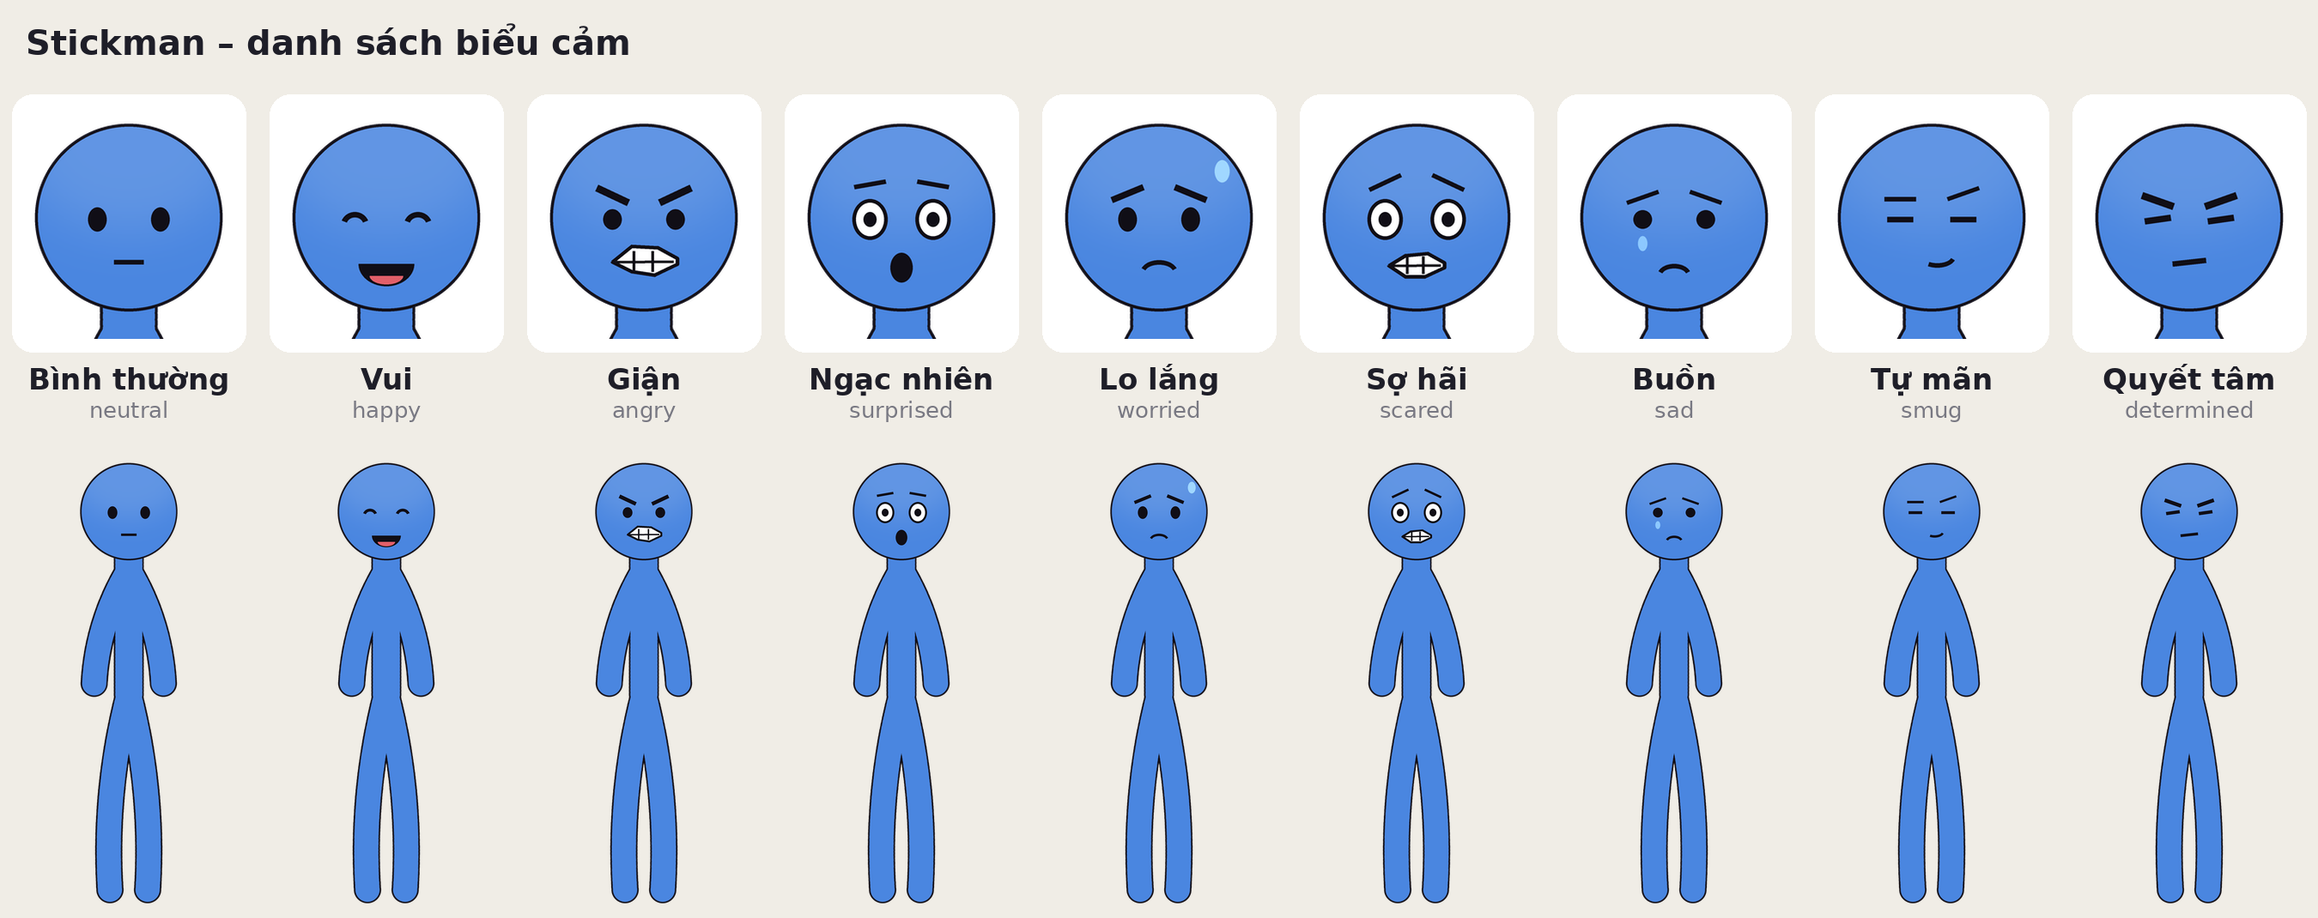
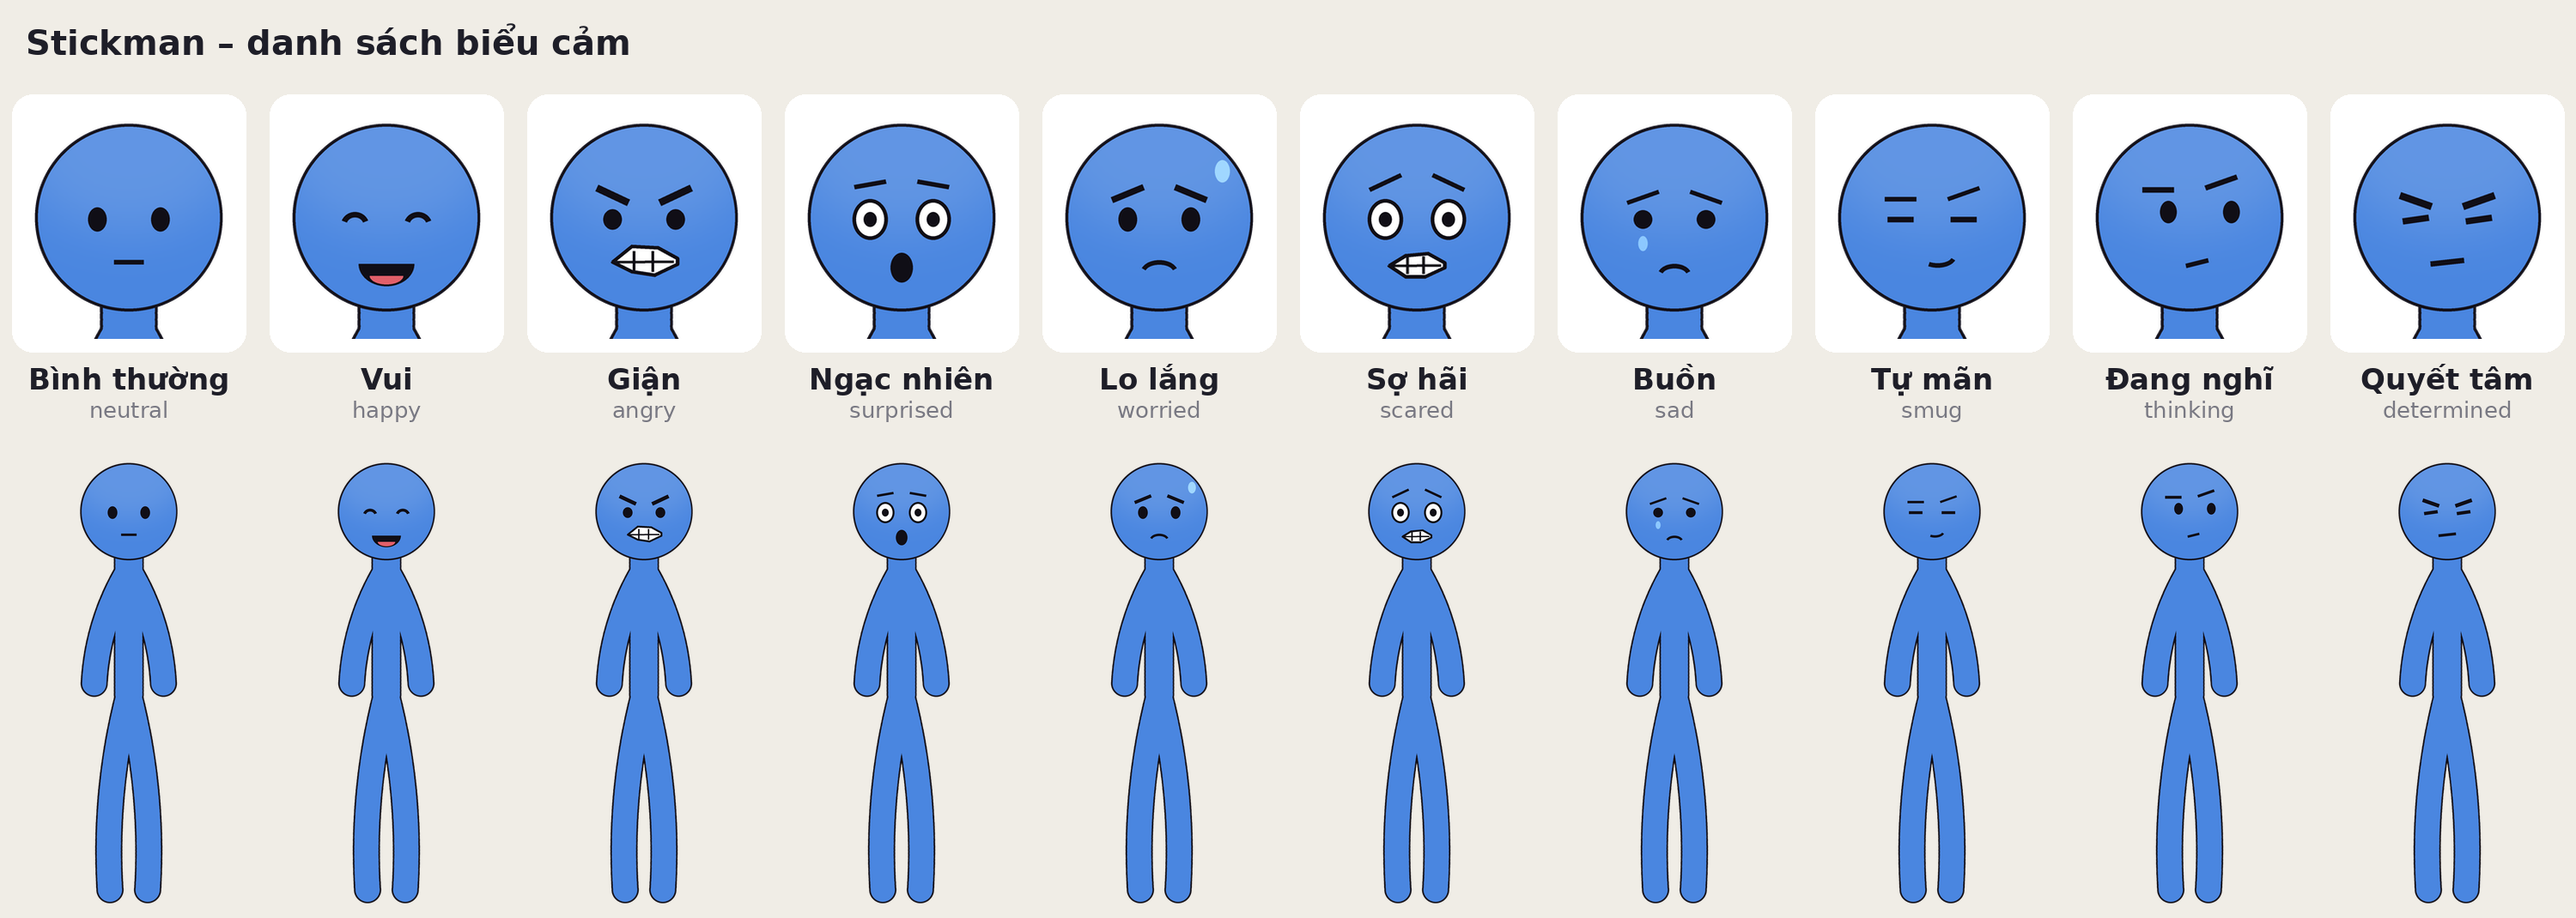
Stickman: rework think pose, add thinking expression
The think pose now crosses one arm under the elbow and rests the other
hand on the chin, instead of a fist floating beside the head. Limbs take
an optional forearm-length factor per pose.

Claude-Session: https://claude.ai/code/session_01CUE842PbdL9sSX7eAMKyAH

diff --git a/stickman/scripts/stickman.py b/stickman/scripts/stickman.py
@@ -19,7 +19,7 @@ POSES = {
     'run':   dict(armL=(-55, -125), armR=(45, -15), legL=(-38, 8), legR=(30, 85)),
     'point': dict(armL=(24, 10), armR=(-82, -88), legL=(11, 1), legR=(-11, -1)),
     'shrug': dict(armL=(60, -35), armR=(-60, 35), legL=(10, 1), legR=(-10, -1)),
-    'think': dict(armL=(24, 10), armR=(-30, -160), legL=(10, 1), legR=(-10, -1)),
+    'think': dict(armL=(10, -84, 0.72), armR=(-30, 160), legL=(10, 1), legR=(-10, -1)),   # arm across the belly, other hand on the chin
     'cheer': dict(armL=(145, 160), armR=(-145, -160), legL=(16, 2), legR=(-16, -2)),
 }
 
@@ -39,10 +39,10 @@ def draw(expr='neutral', pose='stand', color='#4a86e0', hat=None, look=0.0):
     hip = (300, 520); shoulder = (300, 262)
     seg_arm, seg_leg = 124, 205
 
-    def limb(root, ang, seg):
-        a1, a2 = (math.radians(a) for a in ang)
+    def limb(root, ang, seg):              # ang = (upper, lower[, lower-length factor])
+        a1, a2 = math.radians(ang[0]), math.radians(ang[1]); seg2 = seg * (ang[2] if len(ang) > 2 else 1.0)
         j = (root[0] - math.sin(a1) * seg, root[1] + math.cos(a1) * seg)
-        e = (j[0] - math.sin(a2) * seg, j[1] + math.cos(a2) * seg)
+        e = (j[0] - math.sin(a2) * seg2, j[1] + math.cos(a2) * seg2)
         return root, j, e
 
     def path(root, j, e, n=60):            # smooth quadratic through the joint
@@ -75,7 +75,6 @@ def draw(expr='neutral', pose='stand', color='#4a86e0', hat=None, look=0.0):
     side = pose in SIDE_POSES
     body = [(lpts(legs[1]), T), (lpts(legs[0]), T), (torso, TB)]
     if side: body.insert(0, (lpts(arms[1]), T))
-    elif pose == 'think': body.insert(0, (lpts(arms[0]), T))          # hanging arm; chin arm drawn over the face later
     else: body = [(lpts(arms[0]), T), (lpts(arms[1]), T)] + body
     for pts, w in body: stamp(pts, w + 2 * OUT, INK)
     for pts, w in body: stamp(pts, w, C)
@@ -86,8 +85,8 @@ def draw(expr='neutral', pose='stand', color='#4a86e0', hat=None, look=0.0):
     cap = Image.new('L', im.size, 0); ImageDraw.Draw(cap).ellipse([(hx - R * 1.25) * S, (hy - R * 1.9) * S, (hx + R * 1.25) * S, (hy + R * 0.15) * S], fill=150)
     cap = ImageChops.multiply(cap.filter(ImageFilter.GaussianBlur(26 * S)), m)
     lay = Image.new('RGBA', im.size, hi + (255,)); lay.putalpha(cap); im.alpha_composite(lay); d = ImageDraw.Draw(im)
-    if side:
-        front_arm(lpts(arms[0]))
+    if side or pose == 'think':
+        front_arm(lpts(arms[0]))           # think: the crossed arm sits in front of the torso
 
     # ---------------- face ----------------
     K = (16, 14, 22, 255); WH = (255, 255, 255, 255)
@@ -139,6 +138,10 @@ def draw(expr='neutral', pose='stand', color='#4a86e0', hat=None, look=0.0):
         eye(eL, 'dot', 20); eye(eR, 'dot', 20); brow(eL, -6, -24, 5); brow(eR, 6, -24, 5)
         d.arc([(fx - 18) * S, (my + 2) * S, (fx + 18) * S, (my + 26) * S], 200, 340, fill=K, width=5 * S)
         d.ellipse([(eL - 5) * S, (ey + 18) * S, (eL + 5) * S, (ey + 34) * S], fill=(140, 200, 255, 255))
+    elif expr == 'thinking':               # eyes glance up-right, one brow raised, small skewed mouth
+        for cx in (eL, eR): d.ellipse([(cx + 2) * S, (ey - 20) * S, (cx + 20) * S, (ey + 4) * S], fill=K)
+        brow(eL, 0, -32, 6); brow(eR, -6, -40, 6)
+        d.line([(fx - 4) * S, (my + 4) * S, (fx + 20) * S, (my - 2) * S], fill=K, width=5 * S)
     elif expr == 'determined':
         eye(eL, 'squint'); eye(eR, 'squint'); brow(eL, 6, -20, 8); brow(eR, -6, -20, 8)
         d.line([(fx - 18) * S, (my + 2) * S, (fx + 18) * S, (my - 2) * S], fill=K, width=6 * S)

diff --git a/stickman/scripts/sheets.py b/stickman/scripts/sheets.py
@@ -8,7 +8,7 @@ F = ImageFont.truetype(FB, 40); f2 = ImageFont.truetype(FR, 26); F3 = ImageFont.
 BG = (240, 237, 230, 255); TXT = (30, 30, 40); SUB = (120, 120, 130)
 COL = '#4a86e0'
 ex = [('neutral', 'Bình thường'), ('happy', 'Vui'), ('angry', 'Giận'), ('surprised', 'Ngạc nhiên'), ('worried', 'Lo lắng'),
-      ('scared', 'Sợ hãi'), ('sad', 'Buồn'), ('smug', 'Tự mãn'), ('determined', 'Quyết tâm')]
+      ('scared', 'Sợ hãi'), ('sad', 'Buồn'), ('smug', 'Tự mãn'), ('thinking', 'Đang nghĩ'), ('determined', 'Quyết tâm')]
 
 def face_crop(im):
     top = im.getbbox()[1]
@@ -31,7 +31,7 @@ for i, (e, label) in enumerate(ex):
 sheet.save(f'{OUT}/stick_expressions.png')
 
 ps = [('stand', 'Đứng', 'neutral'), ('wave', 'Vẫy tay', 'happy'), ('walk', 'Bước đi', 'neutral'), ('run', 'Chạy', 'scared'),
-      ('point', 'Chỉ tay', 'angry'), ('shrug', 'Nhún vai', 'smug'), ('think', 'Suy nghĩ', 'worried'), ('cheer', 'Ăn mừng', 'happy')]
+      ('point', 'Chỉ tay', 'angry'), ('shrug', 'Nhún vai', 'smug'), ('think', 'Suy nghĩ', 'thinking'), ('cheer', 'Ăn mừng', 'happy')]
 cols = ['#4a86e0', '#e0583f', '#3fae6a', '#f2b234', '#8a5cd6', '#4a86e0', '#e0583f', '#3fae6a']
 ch = 700
 sh = Image.new('RGBA', (cw * len(ps), T + 40 + ch + 20), BG); d = ImageDraw.Draw(sh)

diff --git a/stickman/README.md b/stickman/README.md
@@ -3,7 +3,7 @@
 An original solid-colour stickman, about 5 heads tall. It has a tube body, smoothly bent limbs, a thin dark outline, a lit head and an expressive face.
 
 - `scripts/stickman.py`: `draw(expr, pose, color, hat, look)` returns a 600x1000 RGBA card with the soles at y=975.
-  - Expressions: neutral, happy, angry, surprised, worried, scared, sad, smug, determined.
+  - Expressions: neutral, happy, angry, surprised, worried, scared, sad, smug, thinking, determined.
   - Poses: stand, wave, walk, run, point, shrug, think, cheer.
   - Hats: helmet, sailor.
 - `scripts/sheets.py <outdir>`: rebuilds the reference sheets and the per-expression PNGs in this folder.
